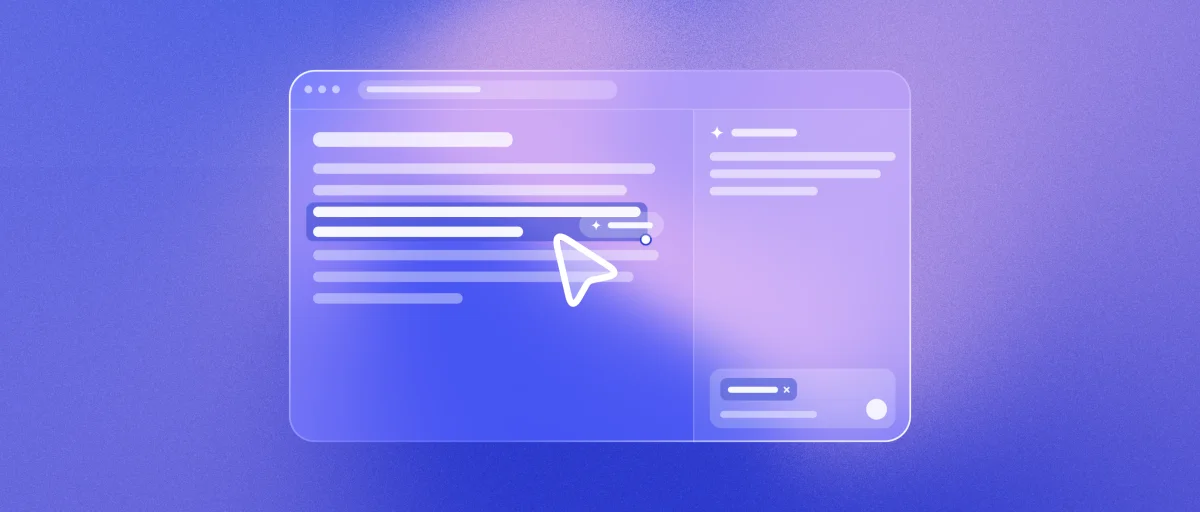
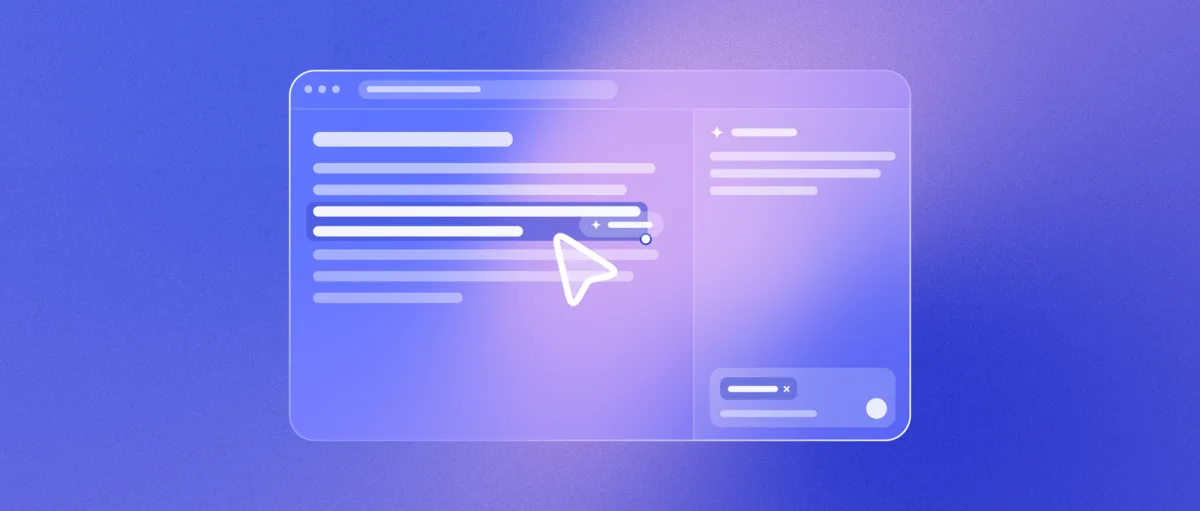
blog: selection-as-context 换新封面（freeze=60）+ 重新同步
- 封面参数改定 seed=26 / dist=0.20 / swirl=0.10，静态定格 freeze=60
- 详情页重渲染 + 资源重拷（cover.png / cover.html）
- 重跑 extract-articles / build-card-covers / npm run build

diff --git a/docs/writing/assets/selection-as-context/cover.html b/docs/writing/assets/selection-as-context/cover.html
@@ -115,14 +115,14 @@ body.static *{animation:none!important;}
 <script>
 // ===== 配置：URL 参数可覆盖（渲图脚本用），默认动态流动 =====
 var q=new URLSearchParams(location.search);
-// 定稿（2026-08-05 用户挑帧）：终端云朵图标配色（蓝+粉紫），seed=81.9 dist=0.45 swirl=0.4，静态定格 FREEZE=63，动态起始对齐同帧
+// 定稿（2026-08-06 用户调参）：终端云朵图标配色（蓝+粉紫），seed=26 dist=0.20 swirl=0.10，静态定格 FREEZE=60，动态起始对齐同帧
 var CFG={
   colors:[q.get('c1')||'#4B5FE8', q.get('c2')||'#C9A4EC', q.get('c3')||'#2C3AD4'],
-  seed:  q.has('seed') ?parseFloat(q.get('seed')) :81.9,
-  dist:  q.has('dist') ?parseFloat(q.get('dist')) :0.45,
-  swirl: q.has('swirl')?parseFloat(q.get('swirl')):0.4,
+  seed:  q.has('seed') ?parseFloat(q.get('seed')) :26,
+  dist:  q.has('dist') ?parseFloat(q.get('dist')) :0.20,
+  swirl: q.has('swirl')?parseFloat(q.get('swirl')):0.10,
   grain: q.has('grain')?parseFloat(q.get('grain')):0.25,
-  time0: q.has('t0')   ?parseFloat(q.get('t0'))   :63,
+  time0: q.has('t0')   ?parseFloat(q.get('t0'))   :60,
   freeze:q.has('freeze')?parseFloat(q.get('freeze')):null,
   static:q.has('static')
 };
